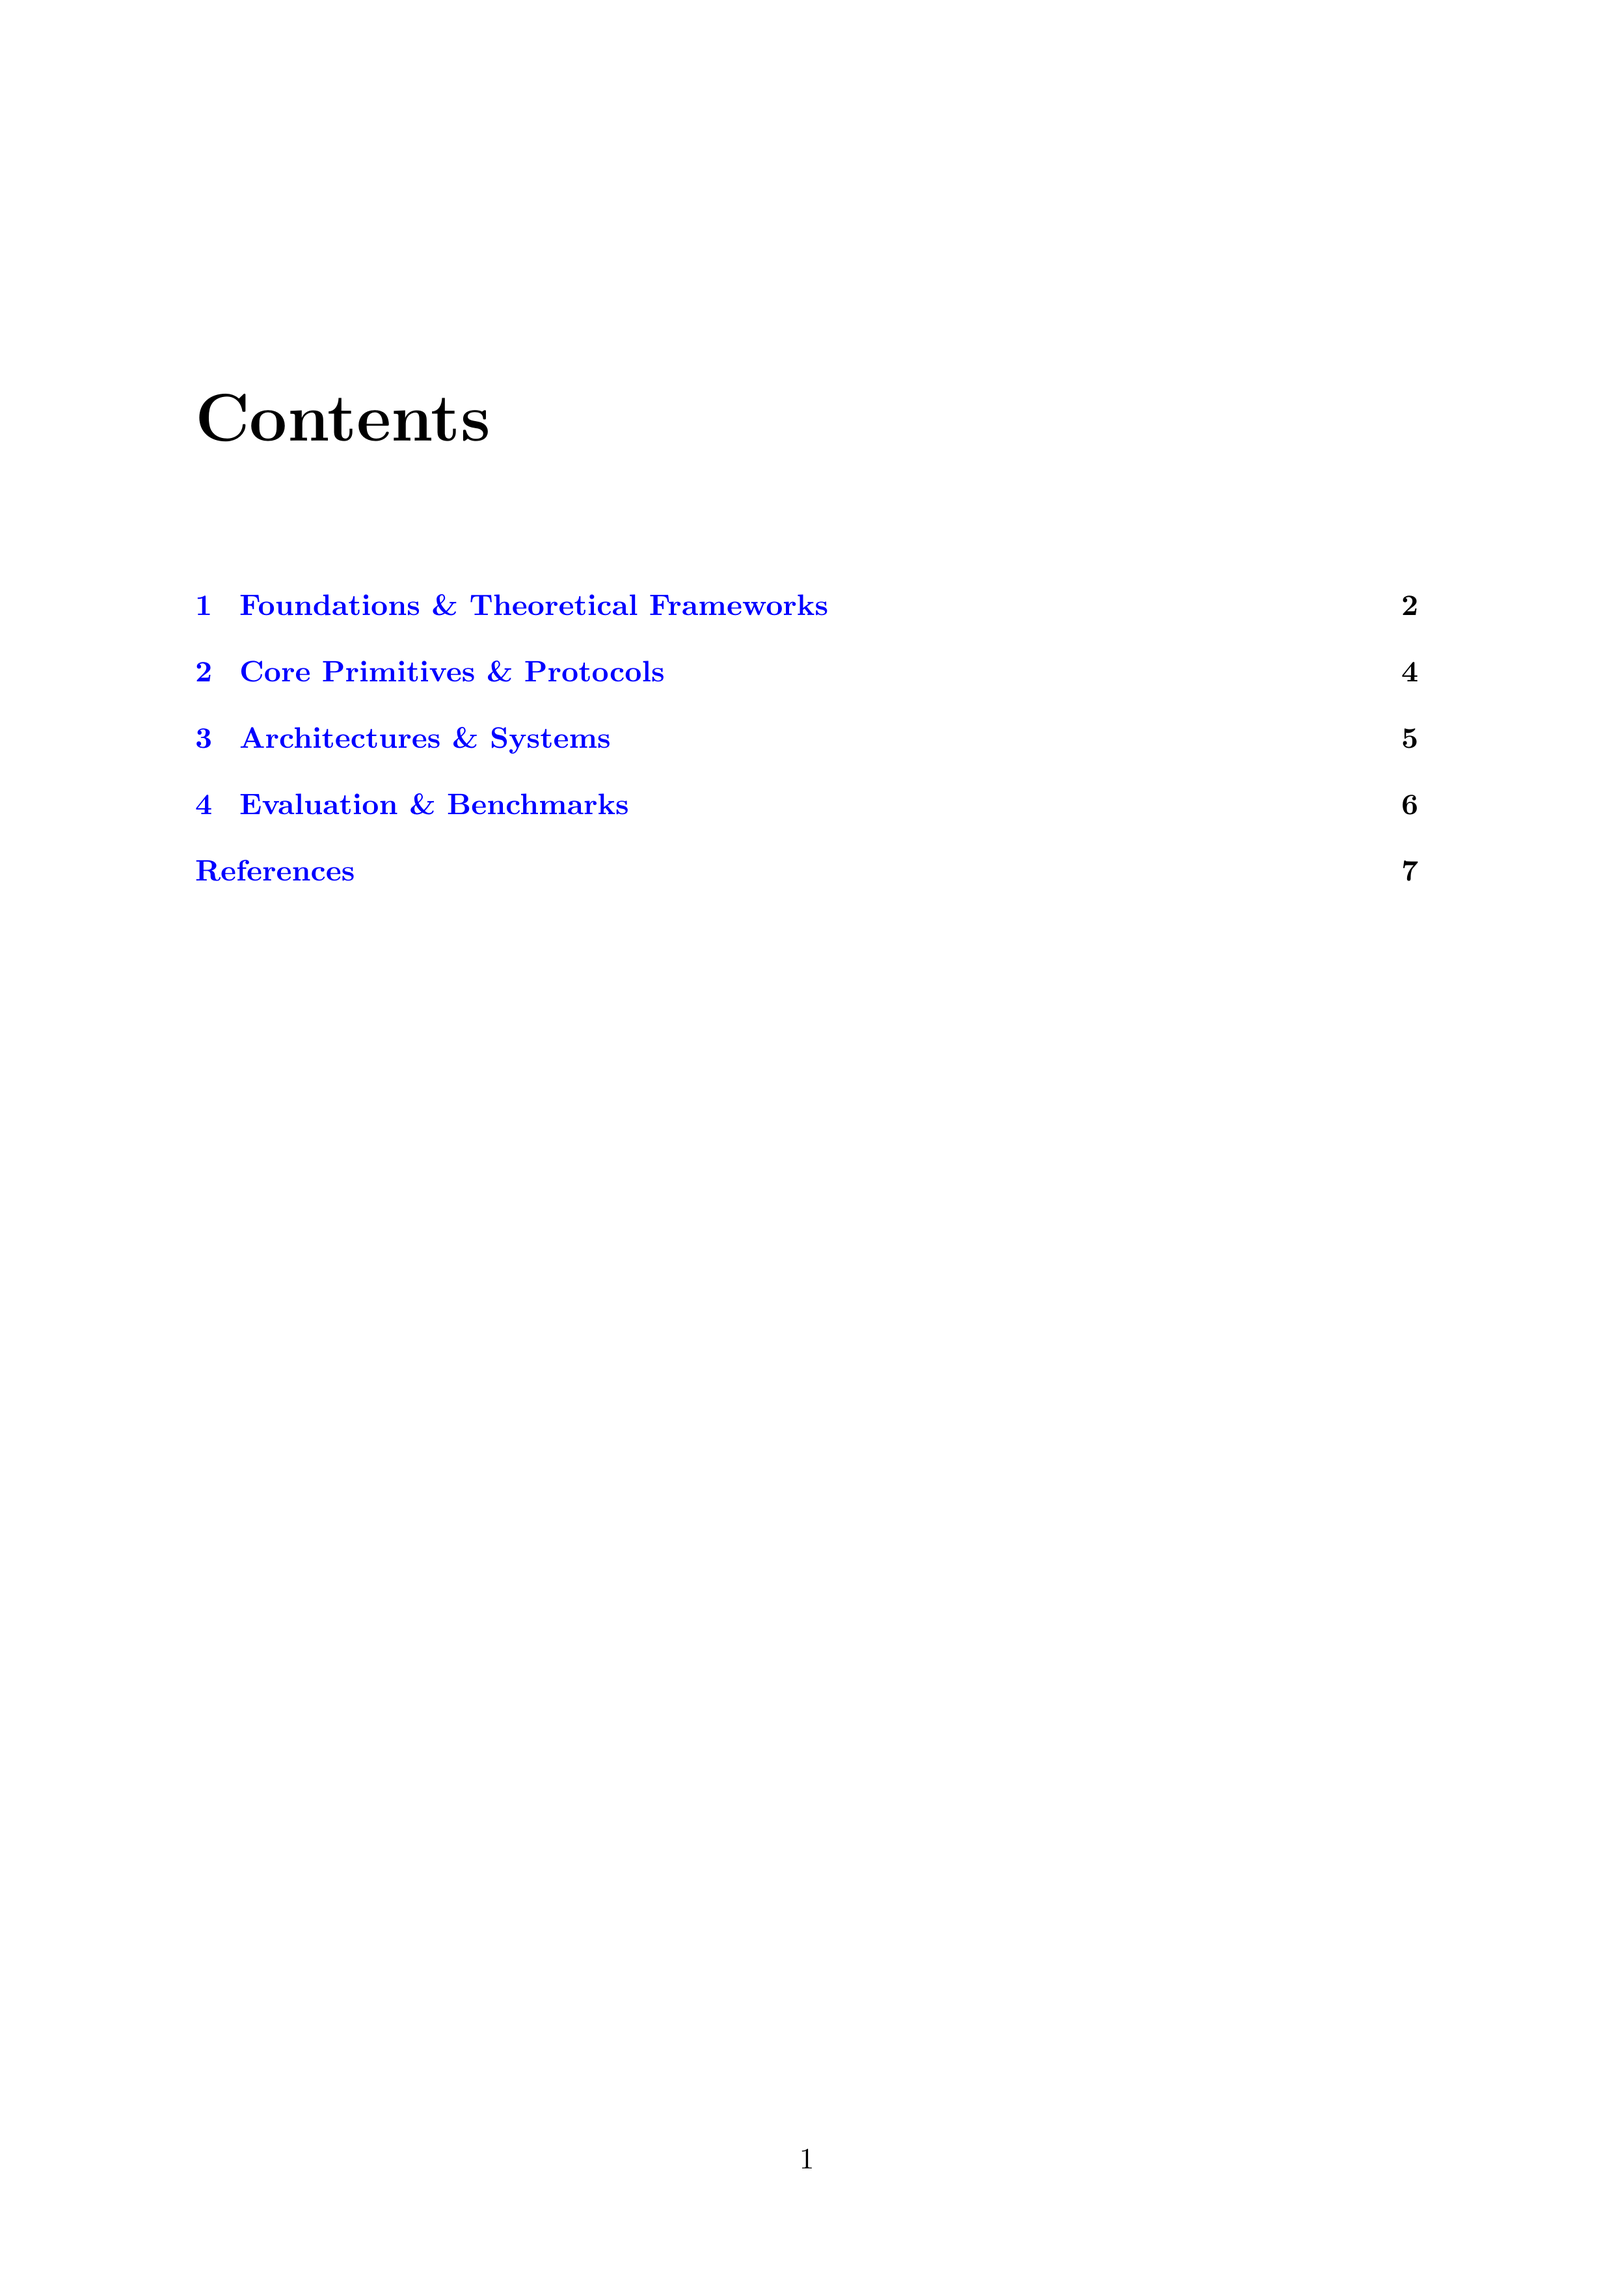
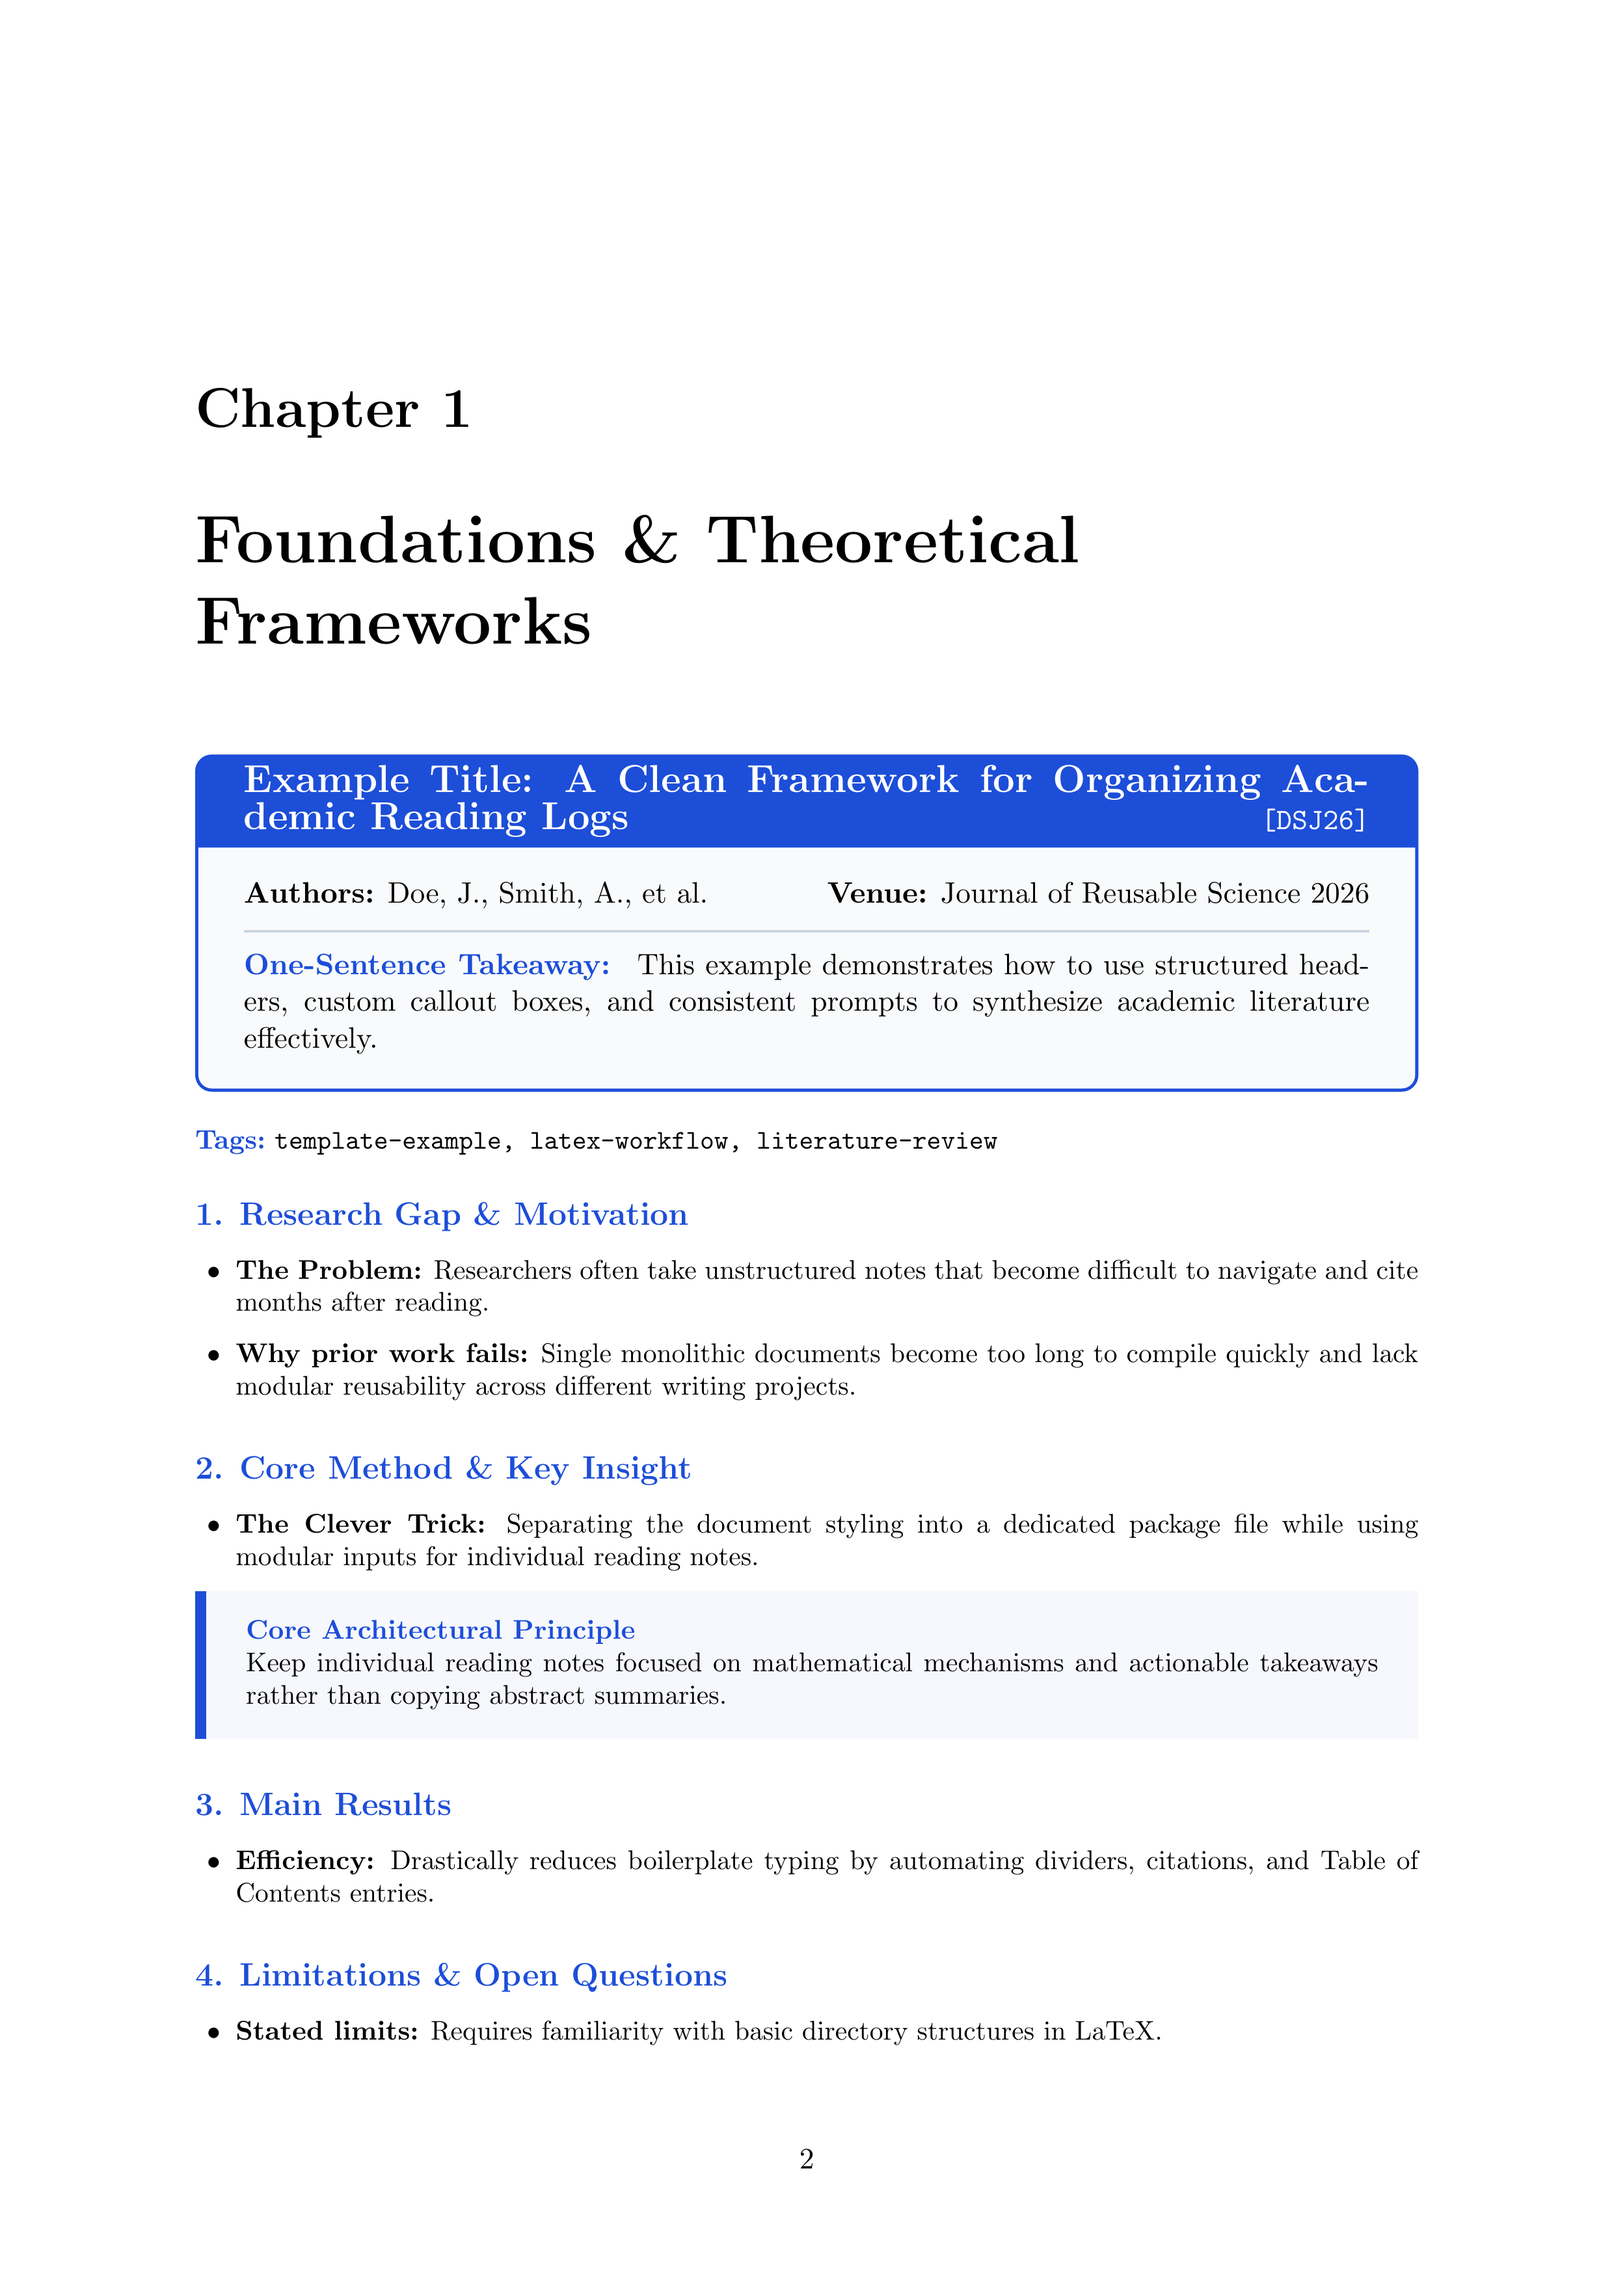
Fix preview image page references

diff --git a/README.md b/README.md
@@ -54,6 +54,8 @@ Instead of dumping raw notes into a single monolithic document, this template us
 research-reading-log-template/
 ├── LICENSE                       # MIT License
 ├── README.md
+├── example/                      # Full compiled example PDF for reference
+│   └── example-output.pdf
 ├── figures/                      # Store architecture diagrams and plots here
 ├── topics/                       # Modular paper folders grouped by research theme
     ├── 01_foundations/
